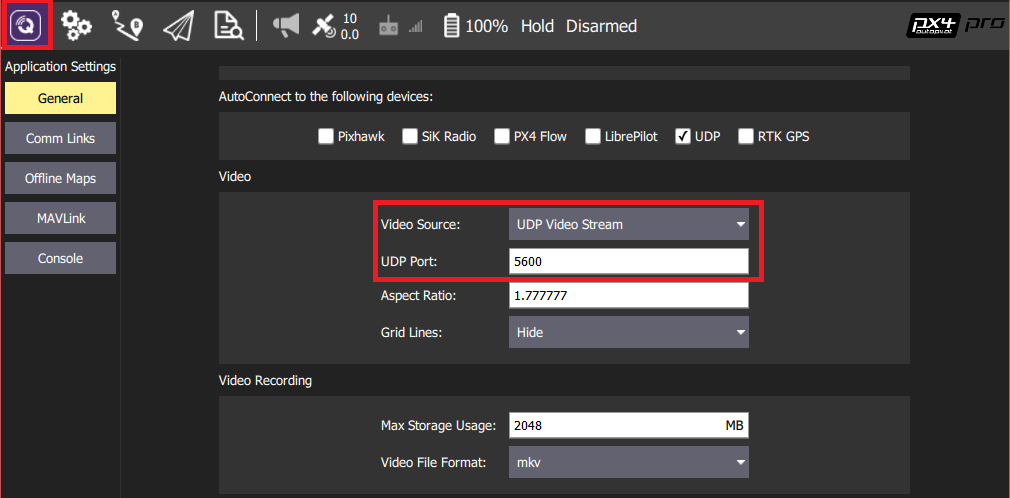
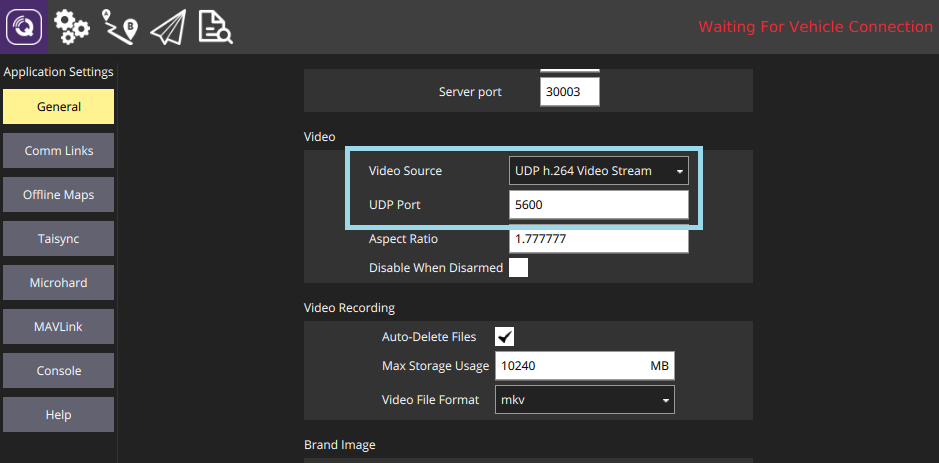
Gazebo Sim: Docs updates

diff --git a/en/simulation/gazebo.md b/en/simulation/gazebo.md
@@ -1,19 +1,13 @@
 # Gazebo Simulation
 
-<!-- Check if updates required - ie that following are fixed:
-- Gazebo8 not supported and should be: https://github.com/PX4/sitl_gazebo/pull/118#pullrequestreview-86032497
-- Video functionality disabled by default (should be enabled): https://github.com/PX4/Devguide/pull/418#pullrequestreview-86789154
-- Find out actual gstreamer dependencies and update both this doc and build scripts - should be done when the camera plugin is a default.
--->
-
 [Gazebo](http://gazebosim.org) is a powerful 3D simulation environment for autonomous robots that is particularly suitable for testing object-avoidance and computer vision.
 This page describes its use with SITL and a single vehicle.
 Gazebo can also be used with [HITL](../simulation/hitl.md) and for [multi-vehicle simulation](../simulation/multi-vehicle-simulation.md).
 
 **Supported Vehicles:** Quad ([Iris](../airframes/airframe_reference.md#copter_quadrotor_wide_3dr_iris_quadrotor) and [Solo](../airframes/airframe_reference.md#copter_quadrotor_x_3dr_solo), Hex (Typhoon H480), [Generic quad delta VTOL](../airframes/airframe_reference.md#vtol_standard_vtol_generic_quad_delta_vtol), Tailsitter, Plane, Rover, Submarine/UUV.
 
-> **Tip** Gazebo is often used with [ROS](../ros/README.md), a toolkit/offboard API for automating vehicle control.
-  If you plan to use PX4 with ROS you should instead [follow the instructions here](../simulation/ros_interface.md) to install Gazebo as part of ROS!
+> **Warning** Gazebo is often used with [ROS](../ros/README.md), a toolkit/offboard API for automating vehicle control.
+  If you plan to use PX4 with ROS you **should follow the** [ROS Instructions](../simulation/ros_interface.md) to install both ROS and Gazebo (and thereby avoid installation conflicts).
 
 {% youtube %}https://www.youtube.com/watch?v=qfFF9-0k4KA&vq=hd720{% endyoutube %}
 
@@ -25,14 +19,14 @@ graph LR;
   MAVLink-->SITL;
 {% endmermaid %}
 
-> **Note** See [Simulation](/simulation/README.md) for general information about simulators, the simulation environment and available simulation configuration (e.g. supported vehicles). 
+> **Note** See [Simulation](/simulation/README.md) for general information about simulators, the simulation environment, and simulation configuration (e.g. supported vehicles).
 
 
-## Installation
+## Installation {#installation}
 
 Gazebo 9 setup is included in our standard build instructions:
 - **macOS:** [Development Environment on Mac](../setup/dev_env_mac.md)
-- **Linux:** [Development Environment on Linux (Ubuntu 16.04) > jMAVSim/Gazebo Simulation](../setup/dev_env_linux_ubuntu.md#sim_nuttx)
+- **Linux:** [Development Environment on Ubuntu LTS / Debian Linux > Gazebo, JMAVSim and NuttX (Pixhawk) Targets](../setup/dev_env_linux_ubuntu.md#sim_nuttx)
 - **Windows:** Not supported.
 
 Additional installation instructions can be found on [gazebosim.org](http://gazebosim.org/tutorials?cat=guided_b&tut=guided_b1).
@@ -40,14 +34,19 @@ Additional installation instructions can be found on [gazebosim.org](http://gaze
 
 ## Running the Simulation
 
-You can run a simulation by starting PX4 SITL and gazebo with the airframe configuration to load (multicopters, planes, VTOL, optical flow and multi-vehicle simulations are supported). 
+You can run a simulation by starting PX4 SITL and gazebo with the airframe configuration to load (multicopters, planes, VTOL, optical flow and multi-vehicle simulations are supported).
 
 The easiest way to do this is to open a terminal in the root directory of the PX4 *Firmware* repository and call `make` for the targets as shown in the following sections.
 
-> **Tip** You can use the [instructions below](#start_px4_sim_separately) to keep Gazebo running and only re-launch PX4. This is quicker than restarting both.
+> **Tip** You can use the [instructions below](#start_px4_sim_separately) to keep Gazebo running and only re-launch PX4.
+This is quicker than restarting both.
+  You can also run the simulation in [Headless Mode](#headless) which does not start the Gazebo UI (this uses fewer resources and is much faster).
 
 <span></span>
 > **Tip** For the full list of build targets run `make px4_sitl list_vmd_make_targets` (and filter on those that start with `gazebo_`).
+
+<span></span>
+> **Note** The [Installing Files and Code](../setup/dev_env.md) guide is a useful reference if there are build errors.
 
 
 ### Quadrotor
@@ -63,13 +62,22 @@ make px4_sitl gazebo
 make px4_sitl gazebo_iris_opt_flow
 ```
 
-### 3DR Solo
+### 3DR Solo (Quadrotor) {#3dr-solo}
 
 ```sh
 make px4_sitl gazebo_solo
 ```
 
 ![3DR Solo in Gazebo](../../assets/gazebo/solo.png)
+
+
+## Typhoon H480 (Hexrotor) {#typhoon_h480}
+
+```
+make px4_sitl gazebo_typhoon_h480
+```
+
+> **Note** This target also supports [video streaming simulation](#video).
 
 ### Standard Plane
 
@@ -114,24 +122,14 @@ make px4_sitl gazebo_uuv_hippocampus
 
 
 
-## Change World
-
-The current default world is the **iris.world** located in the directory [worlds](https://github.com/PX4/sitl_gazebo/tree/b59e6e78e42d50f70224d1d0e506825590754d64/worlds).
-The default surrounding in the **iris.world** uses a heightmap as ground.
-This ground can cause difficulty when using a distance sensor.
-If there are unexpected results with that heightmap, we recommend you change the model in **iris.model** from `uneven_ground` to `asphalt_plane`.
-
 ## Taking it to the Sky
 
-> **Note** Please refer to the [Installing Files and Code](../setup/dev_env.md) guide if you run into any errors.
+The `make` commands above first build PX4, and then run it along with the Gazebo simulator.
 
-This will bring up the PX4 shell:
+Once PX4 has started it will launch the PX4 shell as shown below.
 
-```sh
-[init] shell id: 140735313310464
-[init] task name: px4
-
-______  __   __    ___
+```
+______  __   __    ___ 
 | ___ \ \ \ / /   /   |
 | |_/ /  \ V /   / /| |
 |  __/   /   \  / /_| |
@@ -140,15 +138,26 @@ ______  __   __    ___
 
 px4 starting.
 
-
-pxh>
+INFO  [px4] Calling startup script: /bin/sh etc/init.d-posix/rcS 0
+INFO  [param] selected parameter default file eeprom/parameters_10016
+[param] Loaded: eeprom/parameters_10016
+INFO  [dataman] Unknown restart, data manager file './dataman' size is 11798680 bytes
+INFO  [simulator] Waiting for simulator to connect on TCP port 4560
+Gazebo multi-robot simulator, version 9.0.0
+Copyright (C) 2012 Open Source Robotics Foundation.
+Released under the Apache 2 License.
+http://gazebosim.org
+...
+INFO  [ecl/EKF] 5188000: commencing GPS fusion
 ```
+The console will print out status as PX4 loads the airframe-specific initialisation and parameter files, waits for (and connects to) the simulator.
+Once there is an INFO print that [ecl/EKF] is `commencing GPS fusion` the vehicle is ready to arm.
+
 
 > **Note** Right-clicking the quadrotor model allows to enable follow mode from the context menu, which is handy to keep it in view.
 
 ![Gazebo UI](../../assets/simulation/gazebo.png)
 
-The system will print the home position once it finished intializing (`telem> home: 55.7533950, 37.6254270, -0.00`).
 You can bring it into the air by typing:
 
 ```sh
@@ -157,23 +166,23 @@ pxh> commander takeoff
 
 ## Usage/Configuration Options
 
-### Headless Mode
+### Headless Mode {#headless}
 
-Gazebo can be run in a *headless* mode in which the Gazebo UI is not launched. 
+Gazebo can be run in a *headless* mode in which the Gazebo UI is not launched.
 This starts up more quickly and uses less system resources (i.e. it is a more "lightweight" way to run the simulation).
 
-Simply prefix the normal *make* command with `HEADLESS=1` as shown:
+Simply prefix the normal `make` command with `HEADLESS=1` as shown:
 ```bash
 HEADLESS=1 make px4_sitl gazebo_plane
 ```
 
-### Set Custom Takeoff Location
+### Set Custom Takeoff Location {#custom_takeoff_location}
 
 The default takeoff location in SITL Gazebo can be overridden using environment variables.
 
 The variables to set are: `PX4_HOME_LAT`, `PX4_HOME_LON`, and `PX4_HOME_ALT`.
 
-As an example:
+For example:
 ```
 export PX4_HOME_LAT=28.452386
 export PX4_HOME_LON=-13.867138
@@ -197,19 +206,29 @@ For more information see: [Simulation > Run Simulation Faster than Realtime](../
 Joystick and thumb-joystick support are supported through *QGroundControl* ([setup instructions here](../simulation/README.md#joystickgamepad-integration)).
 
 
-### Simulating GPS Noise
+### Improving Distance Sensor Performance.
 
-Gazebo can simulate GPS noise that is similar to that typically found in real systems (otherwise reported GPS values will be noise-free/perfect). This is useful when working on applications that might be impacted by GPS noise - e.g. precision positioning.
+The current default world is [PX4/sitl_gazebo/worlds/**iris.world**](https://github.com/PX4/sitl_gazebo/tree/master/worlds)), which uses a heightmap as ground.
+
+This can cause difficulty when using a distance sensor.
+If there are unexpected results we recommend you change the model in **iris.model** from `uneven_ground` to `asphalt_plane`.
+
+
+### Simulating GPS Noise {#gps_noise}
+
+Gazebo can simulate GPS noise that is similar to that typically found in real systems (otherwise reported GPS values will be noise-free/perfect).
+This is useful when working on applications that might be impacted by GPS noise - e.g. precision positioning.
 
 GPS noise is enabled if the target vehicle's SDF file contains a value for the `gpsNoise` element (i.e. it has the line: `<gpsNoise>true</gpsNoise>`).
 It is enabled by default in many vehicle SDF files: **solo.sdf**, **iris.sdf**, **standard_vtol.sdf**, **delta_wing.sdf**, **plane.sdf**, **typhoon_h480**, **tailsitter.sdf**.
 
 To enable/disable GPS noise:
-1. Build any gazebo target in order to generate SDF files (for all vehicles). For example:
+1. Build any gazebo target in order to generate SDF files (for all vehicles).
+   For example:
    ```
    make px4_sitl gazebo_iris
    ```
-   > **Tip** The SDF files are not overwritten on subsequent builds. 
+   > **Tip** The SDF files are not overwritten on subsequent builds.
 2. Open the SDF file for your target vehicle (e.g. **./Tools/sitl_gazebo/models/iris/iris.sdf**).
 3. Search for the `gpsNoise` element:
    ```xml
@@ -236,90 +255,72 @@ This thin wrapper simply embeds app arguments like current working directories a
 To start Gazebo and PX4 separately:
 
 * Run gazebo (or any other sim) server and client viewers via the terminal:
-  ```
+  ```sh
   make px4_sitl gazebo_none_ide
   ```
 * In your IDE select `px4_<mode>` target you want to debug (e.g. `px4_iris`)
 * Start the debug session directly from IDE
 
-This approach significantly reduces the debug cycle time because simulator (e.g. gazebo) is always running in background and you only re-run the px4 process which is very light.
+This approach significantly reduces the debug cycle time because simulator (e.g. Gazebo) is always running in background and you only re-run the px4 process which is very light.
 
 
-## Video Streaming
+## Video Streaming {#video}
 
 PX4 SITL for Gazebo supports UDP video streaming from a Gazebo camera sensor attached to a vehicle model.
-You can connect to this stream from *QGroundControl* (on UDP port 5600) and view video of the Gazebo environment from the simulated vehicle - just as you would from a real camera.
-The video is streamed using a *gstreamer* pipeline.
+When streaming is enabled, you can connect to this stream from *QGroundControl* (on UDP port 5600) and view video of the Gazebo environment from the simulated vehicle - just as you would from a real camera.
+The video is streamed using a *gstreamer* pipeline and can be enabled/disabled using a button in the Gazebo UI.
 
-> **Note** Video streaming from Gazebo and the Gazebo widget to turn streaming on/off are not enabled by default.
-This article explains how to enable them. In the near future we expect these features to be enabled by default.
+The Gazebo camera sensor is supported/enabled on the following frames:
+* [Typhoon H480](#typhoon_h480)
+
 
 ### Prerequisites
 
-Ubuntu: Install *Gstreamer 1.0* and its dependencies:
+*Gstreamer 1.0* is required for video streaming.
+The required dependencies should already have been [installed when you set up Gazebo](#installation) (they are included in the standard PX4 installation scripts/instructions).
+
+For information only:
+- **Ubuntu:** Install *Gstreamer 1.0* and its dependencies:
+  ```
+  sudo apt-get install $(apt-cache --names-only search ^gstreamer1.0-* | awk '{ print $1 }' | grep -v gstreamer1.0-hybris) -y
+  ```
+- **Mac OS:**
+  ```
+  brew install gstreamer gst-libav gst-plugins-base gst-plugins-good gst-plugins-bad gst-plugins-ugly
+  ```
+
+### Start/Stop Video Streaming
+
+Video streaming is automatically started when supported by the target vehicle.
+For example, to start streaming video on the Typhoon H480:
 ```
-sudo apt-get install $(apt-cache --names-only search ^gstreamer1.0-* | awk '{ print $1 }' | grep -v gstreamer1.0-hybris) -y
+make px4_sitl gazebo_typhoon_h480
 ```
 
-Mac OS:
-
-```
-brew install gstreamer gst-libav gst-plugins-base gst-plugins-good gst-plugins-bad gst-plugins-ugly
-```
-
-### How to View Gazebo Video
-
-The easiest way to view the SITL/Gazebo camera video stream is in *QGroundControl*.
-Simply open **Settings > General** and set **Video Source** to *UDP Video Stream* and **UDP Port** to *5600*:
-  
-![QGC Video Streaming Settings for Gazebo](../../assets/simulation/qgc_gazebo_video_stream_udp.png)
-
-The video from Gazebo should then display in *QGroundControl* just as it would from a real camera.
-  
-It is also possible to view the video using the *Gstreamer Pipeline*.
-Simply enter the following terminal command:
-```
-gst-launch-1.0  -v udpsrc port=5600 caps='application/x-rtp, media=(string)video, clock-rate=(int)90000, encoding-name=(string)H264' \
-! rtph264depay ! avdec_h264 ! videoconvert ! autovideosink fps-update-interval=1000 sync=false
-```
-  
-### Gazebo GUI to Start/Stop Video Streaming
-
-> **Note** This feature is supported for Gazebo version 7. 
-
-Video streaming can be enabled/disabled using the Gazebo UI *Video ON/OFF* button.
+Streaming can be paused/restarted using the Gazebo UI *Video ON/OFF* button..
 
 ![Video ON/OFF button](../../assets/gazebo/sitl_video_stream.png)
 
 
-To enable the button:
+### How to View Gazebo Video
 
-1. Open the "world" file to be modified (e.g. [&lt;Firmware>/Tools/sitl_gazebo/worlds/typhoon_h480.world](https://github.com/PX4/sitl_gazebo/blob/master/worlds/typhoon_h480.world)).
-1. Within the default `world name="default"` section, add the `gui` section for the `libgazebo_video_stream_widget` (as shown below): 
+The easiest way to view the SITL/Gazebo camera video stream is in *QGroundControl*.
+Simply open **Application Settings > General** and set **Video Source** to *UDP h.264 Video Stream* and **UDP Port** to *5600*:
+  
+![QGC Video Streaming Settings for Gazebo](../../assets/simulation/qgc_gazebo_video_stream_udp.png)
 
-   ```xml
-   <?xml version="1.0" ?>
-   <sdf version="1.5">
-     <world name="default">
-   ```
-   ```xml
-       <gui>
-         <plugin name="video_widget" filename="libgazebo_video_stream_widget.so"/>
-       </gui>
-   ```
-   ```xml
-    <!-- A global light source -->
-    <include>
-    ...
-   ```
-   
-   > **Tip** This section present in **typhoon_h480.world** - you just need to uncomment the section.
-   
-1. Rebuild SITL:
-   ```
-   make clean
-   make px4_sitl gazebo_typhoon_h480
-   ```
+The video from Gazebo should then display in *QGroundControl* just as it would from a real camera.
+
+![QGC Video Streaming Gazebo Example](../../assets/simulation/qgc_gazebo_video_stream_typhoon.jpg)
+
+> **Note** The Typhoon world is not very interesting.
+
+It is also possible to view the video using the *Gstreamer Pipeline*.
+Simply enter the following terminal command:
+```sh
+gst-launch-1.0  -v udpsrc port=5600 caps='application/x-rtp, media=(string)video, clock-rate=(int)90000, encoding-name=(string)H264' \
+! rtph264depay ! avdec_h264 ! videoconvert ! autovideosink fps-update-interval=1000 sync=false
+```
 
 
 ## Extending and Customizing
@@ -330,9 +331,6 @@ The code is available on the [sitl_gazebo repository](https://github.com/px4/sit
 > **Note** The build system enforces the correct GIT submodules, including the simulator.
   It will not overwrite changes in files in the directory.
 
-## Interfacing to ROS
-
-The simulation can be [interfaced to ROS](../simulation/ros_interface.md) the same way as onboard a real vehicle.
 
 ## Further Information
 
